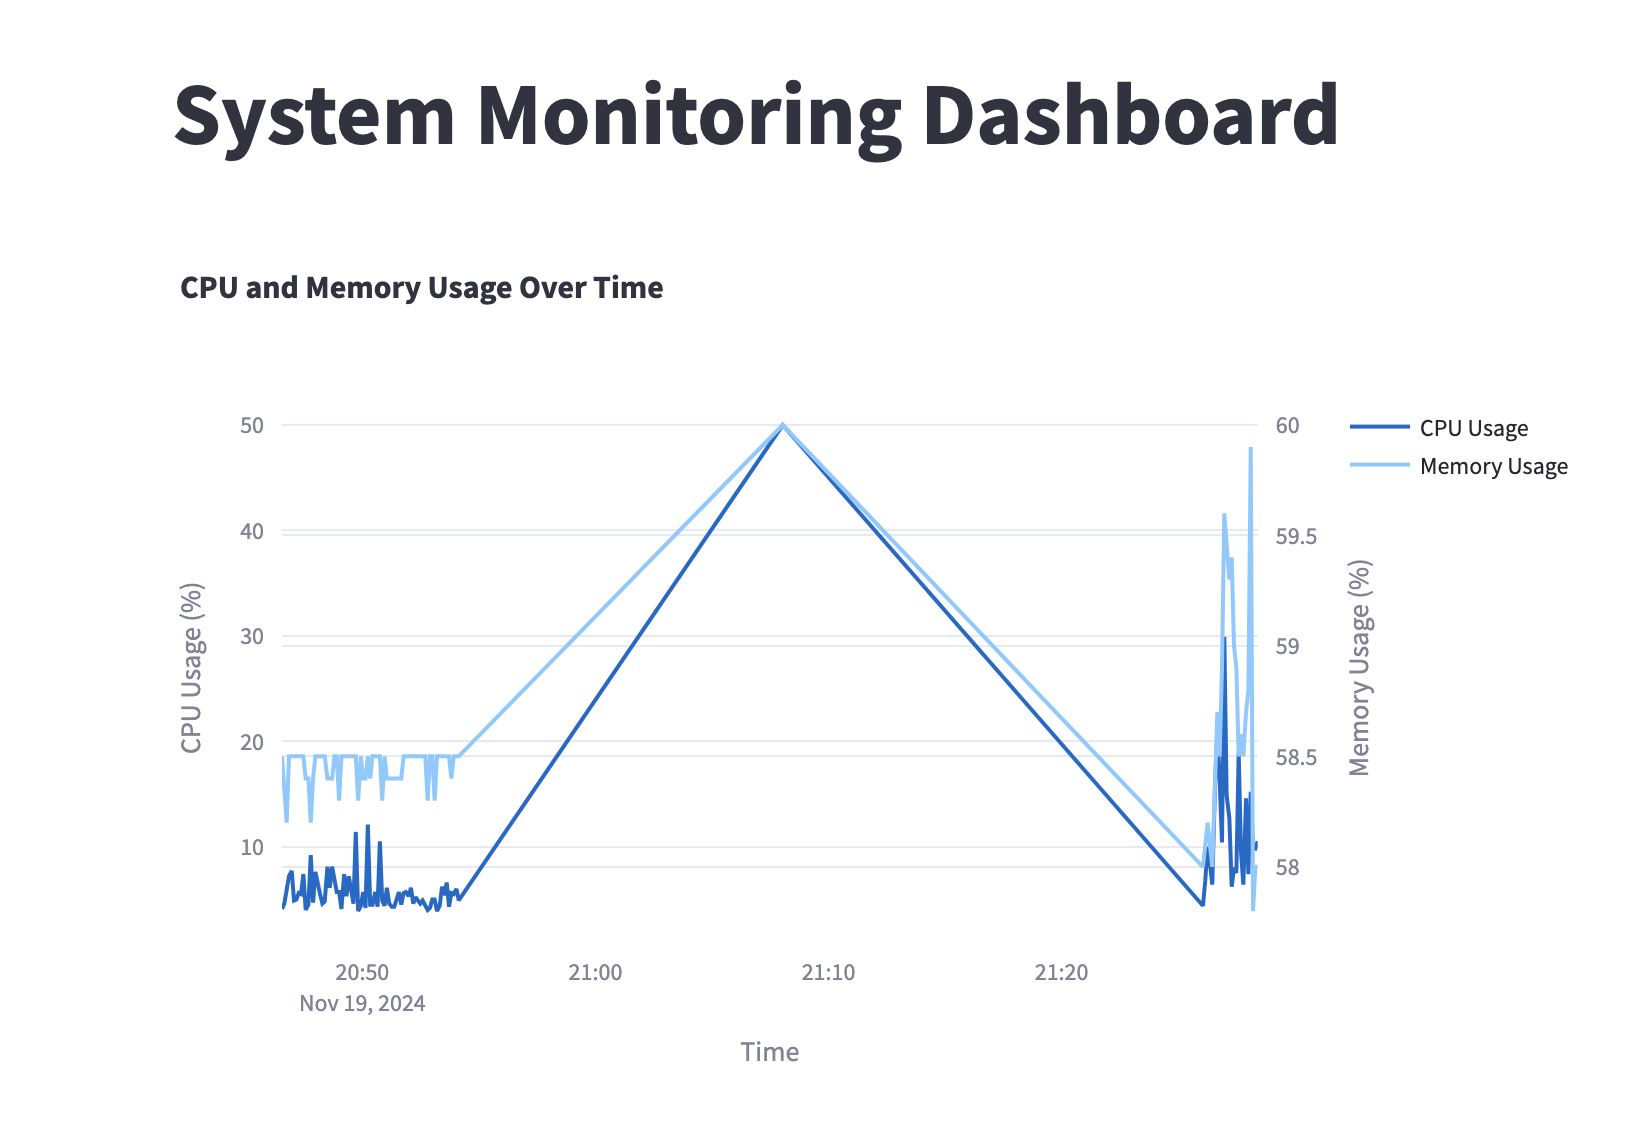
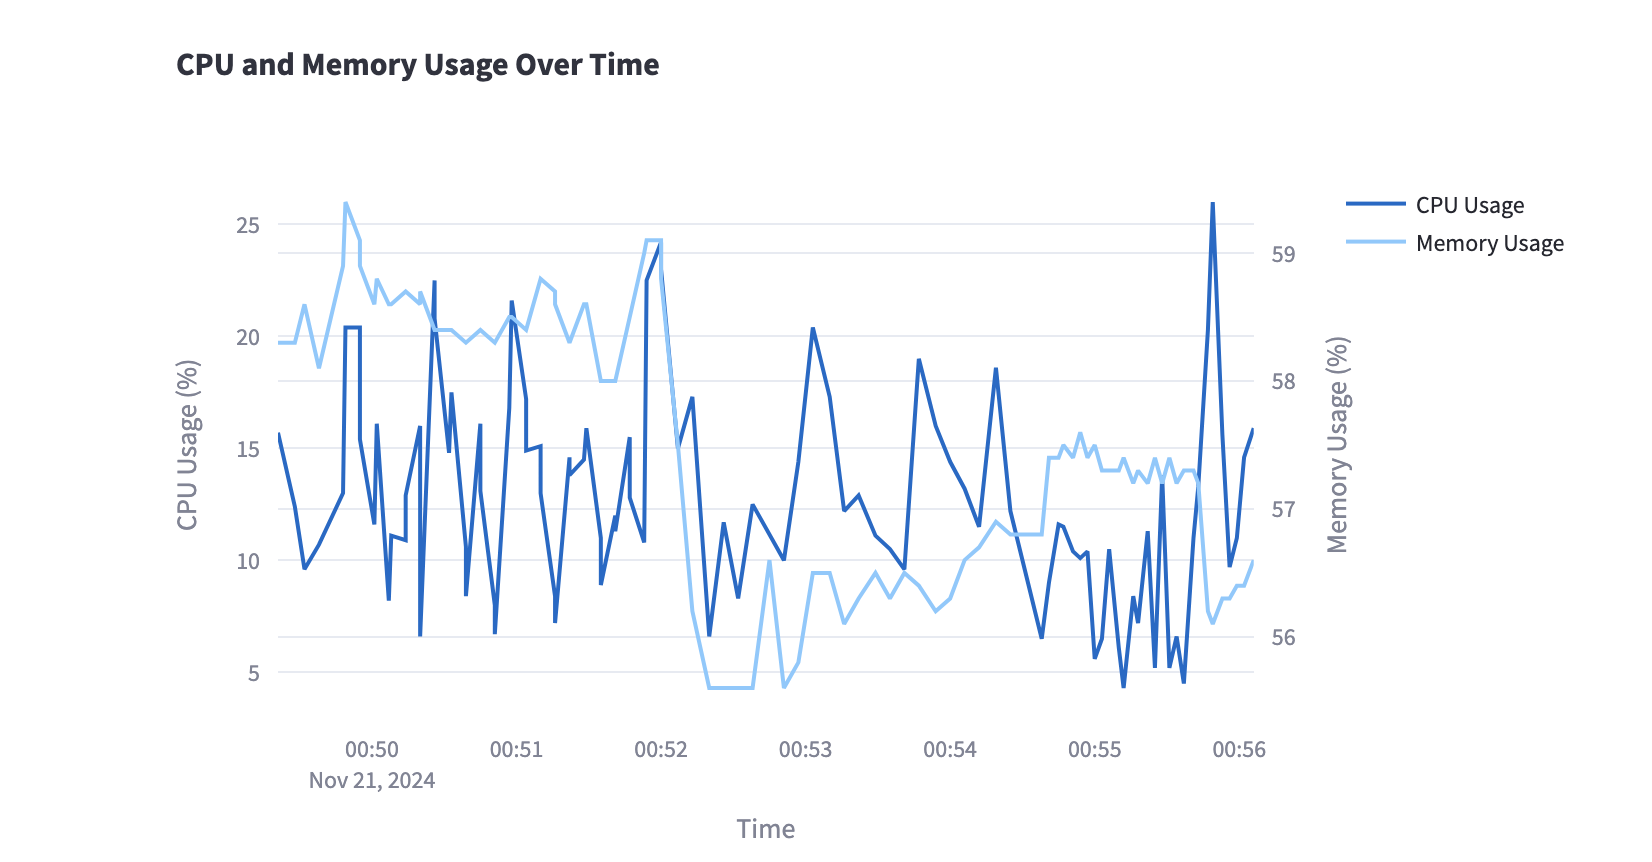
dashboard items updated

diff --git a/src/data/storage.py b/src/data/storage.py
@@ -19,6 +19,8 @@ class DataStorage:
     def __init__(self):
         self.db_path = DB_PATH
         self._create_table()
+
+        self._create_table_mem()
     
     def _create_table(self):
         query = '''
@@ -35,10 +37,32 @@ class DataStorage:
 
         with sqlite3.connect(self.db_path) as conn:
             conn.execute(query)
+            conn.commit()
+
+    def _create_table_mem(self):
+        query = '''
+            CREATE TABLE IF NOT EXISTS memory_metrics (
+            id INTEGER PRIMARY KEY AUTOINCREMENT,
+            timestamp DATETIME NOT NULL,
+            memory_total REAL NOT NULL, 
+            memory_available REAL NOT NULL,
+            memory_used REAL NOT NULL,
+            memory_cached REAL NOT NULL,
+            memory_buffers REAL NOT NULL,
+            memory_percent REAL NOT NULL,
+            swap_total REAL NOT NULL,
+            swap_used REAL NOT NULL,
+            swap_free REAL NOT NULL,
+            swap_percent REAL NOT NULL
+        )
+        '''
+
+        with sqlite3.connect(self.db_path) as conn:
+            conn.execute(query)
+            conn.commit()
     
     def save_to_db(self, data):
         if data is None: return
-        print(data)
         query = '''
         INSERT INTO system_metrics (timestamp, cpu_percent, memory_percent, disk_usage, network_bytes_sent, network_bytes_recv)
         VALUES (:timestamp, :cpu_percent, :memory_percent, :disk_usage, :network_bytes_sent, :network_bytes_recv)
@@ -46,9 +70,9 @@ class DataStorage:
         # (:timestamp, :cpu_percent, :memory_percent, :disk_usage, :network_bytes_sent, :network_bytes_recv)
         try:
 
-            logger.info(f"Attempting to save data: {data}")
-            logger.info(f"Data type: {type(data)}")
-            logger.info(f"Data keys: {list(data.keys())}")
+            logger.debug(f"Attempting to save data: {data}")
+            logger.debug(f"Data type: {type(data)}")
+            logger.debug(f"Data keys: {list(data.keys())}")
             
             params = {
                 'timestamp': data['timestamp'],
@@ -60,11 +84,79 @@ class DataStorage:
             }
             with sqlite3.connect(self.db_path) as conn:
                 conn.execute(query, params)
+                conn.commit()
             logger.info("Data saved successfully")
         
         except Exception as e:
             logger.error(f"Error saving data: {e}")
             logger.error(f'Query was: {query}')
+
+
+    def save_to_db_mem(self, data):
+        if data is None: 
+            return
+        
+        query = '''
+        INSERT INTO memory_metrics (
+            timestamp,
+            memory_total, 
+            memory_available, 
+            memory_used, 
+            memory_cached, 
+            memory_buffers, 
+            memory_percent,
+            swap_total, 
+            swap_used, 
+            swap_free, 
+            swap_percent
+        )
+        VALUES (
+            :timestamp,
+            :memory_total, 
+            :memory_available, 
+            :memory_used, 
+            :memory_cached, 
+            :memory_buffers, 
+            :memory_percent,
+            :swap_total, 
+            :swap_used, 
+            :swap_free, 
+            :swap_percent
+        )
+        '''
+        
+        try:
+            logger.debug(f"Attempting to save data: {data}")
+            logger.debug(f"Data type: {type(data)}")
+            logger.debug(f"Data keys: {list(data.keys())}")
+            
+            params = {
+                'timestamp': data['timestamp'],
+                'memory_total': data['memory_total'],
+                'memory_available': data['memory_available'],
+                'memory_used': data['memory_used'],
+                'memory_cached': data['memory_cached'],
+                'memory_buffers': data['memory_buffers'],
+                'memory_percent': data['memory_percent'],
+                'swap_total': data['swap_total'],
+                'swap_used': data['swap_used'],
+                'swap_free': data['swap_free'],
+                'swap_percent': data['swap_percent']
+            }
+            
+            with sqlite3.connect(self.db_path) as conn:
+                conn.execute(query, params)
+                conn.commit()  # Ensure changes are committed
+            
+            logger.info("Memory metrics saved successfully")
+        
+        except Exception as e:
+            logger.error(f"Error saving memory metrics: {e}")
+            logger.error(f'Query was: {query}')
+            print(data)
+            exit()
+
+    
     
     def load_data(self, limit=100):
         query = f"SELECT * FROM system_metrics ORDER BY timestamp DESC LIMIT {limit}"
@@ -73,4 +165,13 @@ class DataStorage:
                 return pd.read_sql_query(query, conn)
         except Exception as e:
             logger.error(f"Error loading data: {e}")
+            return pd.DataFrame()
+
+    def load_data_mem(self, limit=100):
+        query = f"SELECT * FROM memory_metrics ORDER BY timestamp DESC LIMIT {limit}"
+        try: 
+            with sqlite3.connect(self.db_path) as conn:
+                return pd.read_sql_query(query, conn)
+        except Exception as e:
+            logger.error(f"Error loading memory metrics: {e}")
             return pd.DataFrame()

diff --git a/src/visualization/charts.py b/src/visualization/charts.py
@@ -37,3 +37,98 @@ class ChartGenerator:
     @staticmethod
     def create_network_chart(df):
         return px.line(df, x='timestamp', y=['network_bytes_sent', 'network_bytes_recv'], title='Network Usage Over Time')
+
+
+    @staticmethod
+    def create_memory_composition_chart(df, unit='MB'):
+        # conver unit 
+        def convert_bytes(x, to_unit):
+            units = {
+                'B': 1,
+                'KB': 1024,
+                'MB': 1024**2,
+                'GB': 1024**3
+            }
+            return x / units[to_unit]
+
+        # copy dataframe and convert unit of data
+        df_converted = df.copy()
+        memory_columns = ['memory_used', 'memory_cached', 'memory_buffers', 'memory_available']
+        
+        for col in memory_columns:
+            df_converted[col] = df_converted[col].apply(lambda x: convert_bytes(x, unit))
+
+        fig = px.area(
+            df_converted, 
+            x='timestamp', 
+            y=memory_columns,
+            title=f'Memory Usage Composition Over Time ({unit})',
+            labels={
+                'value': f'Memory ({unit})', 
+                'variable': 'Type'
+            },
+            color_discrete_map={
+                'memory_used': 'red',
+                'memory_cached': 'blue',
+                'memory_buffers': 'green',
+                'memory_available': 'gray'
+            }
+        )
+        
+        return fig
+
+    @staticmethod
+    def create_memory_swap_comparison_chart(df, unit='MB'):
+        def convert_bytes(x, to_unit):
+            units = {
+                'B': 1,
+                'KB': 1024,
+                'MB': 1024**2,
+                'GB': 1024**3
+            }
+            return x / units[to_unit]
+
+        df_converted = df.copy()
+        memory_columns = ['memory_used', 'memory_total', 'swap_used', 'swap_total']
+        
+        for col in memory_columns:
+            df_converted[col] = df_converted[col].apply(lambda x: convert_bytes(x, unit))
+
+        fig = make_subplots(specs=[[{"secondary_y": True}]])
+        
+        # 메모리 사용률 계산 (퍼센트)
+
+        # df_converted['memory_usage_percent'] = (df_converted['memory_used'] / df_converted['memory_total']) * 100
+        
+        # primary y-axis: memory usage
+        fig.add_trace(
+            go.Scatter(
+                x=df_converted['timestamp'], 
+                y=df_converted['memory_used'], 
+                name=f"Memory Used ({unit})"
+            ),
+            secondary_y=False,
+        )
+        
+        # secondary y-aix: swap usage
+        fig.add_trace(
+            go.Scatter(
+                x=df_converted['timestamp'], 
+                y=df_converted['swap_used'], 
+                name=f"Swap Used ({unit})"
+            ),
+            secondary_y=True,
+        )
+        
+        fig.update_layout(
+            title=f'Memory and Swap Usage Over Time ({unit})',
+            yaxis_title=f"Memory Usage ({unit})",
+            yaxis2_title=f"Swap Usage ({unit})"
+        )
+        
+        return fig
+
+# 사용 예시:
+# 단위를 지정하여 차트 생성
+# chart1 = create_memory_composition_chart(df, unit='GB')
+# chart2 = create_memory_swap_comparison_chart(df, unit='MB')

diff --git a/src/app/main.py b/src/app/main.py
@@ -25,19 +25,22 @@ def main():
     data = collector.collect_system_data()
 
     if data:
-        storage.save_to_db(data)
+        storage.save_to_db(data)    
     
     # load stored data
     df = storage.load_data()
 
-    if not df.empty:
-        # cpu-memory chart
-        cpu_memory_chart = chart_gen.create_cpu_memory_chart(df)
-        st.plotly_chart(cpu_memory_chart)
 
-        # network chart
-        network_chart = chart_gen.create_network_chart(df)
-        st.plotly_chart(network_chart)
+
+
+    # new feature
+    data_mem = collector.collect_system_memory()
+    if data_mem:
+        storage.save_to_db_mem(data_mem)
+        
+    df_mem = storage.load_data_mem()
+
+    if not df.empty:
 
         # current system status
         col1, col2, col3 = st.columns(3)
@@ -48,6 +51,28 @@ def main():
             st.metric("Memory Usage", f"{data['memory_percent']}%")
         with col3:
             st.metric("Disk Usage", f"{data['disk_usage']}%")
+
+
+    if not df_mem.empty:
+        memory_composition_chart = chart_gen.create_memory_composition_chart(df_mem, unit = 'GB')
+        memory_swap_comparison_chart = chart_gen.create_memory_swap_comparison_chart(df_mem, unit = 'GB')
+
+        st.plotly_chart(memory_composition_chart)
+        st.plotly_chart(memory_swap_comparison_chart)
+
+
+
+        # cpu-memory chart
+        cpu_memory_chart = chart_gen.create_cpu_memory_chart(df)
+        st.plotly_chart(cpu_memory_chart)
+
+        # network chart
+        network_chart = chart_gen.create_network_chart(df)
+        st.plotly_chart(network_chart)
+
+
+
+    
 
     time.sleep(COLLECTION_INTERVAL)
     st.rerun()

diff --git a/src/data/collector.py b/src/data/collector.py
@@ -34,3 +34,37 @@ class SystemDataCollector:
         except Exception as e:
             logger.error(f'Error collecting system data: {e}')
             return None
+    
+    @staticmethod
+    def collect_system_memory():
+        try: 
+
+            mem = psutil.virtual_memory()
+            swap = psutil.swap_memory()
+            res = {
+
+                'timestamp': datetime.now().strftime('%Y-%m-%d %H:%M:%S'), 
+
+                # 상세 메모리 메트릭
+                'memory_total': mem.total,  # GB 단위
+                'memory_available': mem.available,
+                'memory_used': mem.used,
+                'memory_cached':  -1,
+                'memory_buffers': -1,
+                'memory_percent': mem.percent,
+                
+                # 스왑 메모리 메트릭
+                'swap_total': swap.total,
+                'swap_used': swap.used,
+                'swap_free': swap.free,
+                'swap_percent': swap.percent
+            }
+            if hasattr(mem, 'cached'): mem['memory_cached'] = mem.cached 
+            if hasattr(mem, 'buffers'): mem['memory_cached'] = mem.buffers  
+
+            return res
+
+        except Exception as e:
+            logger.error(f'Error collecting system memory: {e}')
+            return None
+    

diff --git a/tests/test_collector.py b/tests/test_collector.py
@@ -8,6 +8,13 @@ class TestSystemDataCollector(unittest.TestCase):
         self.assertIn('cpu_percent', data)
         self.assertIn('memory_percent', data)
         self.assertIn('disk_usage', data)
+    
+    def test_collect_system_memory(self):
+        data = SystemDataCollector.collect_system_memory()
+        self.assertIsNotNone(data)
+        self.assertIn('swap_total', data)
+        self.assertIn('swap_percent', data)
+        self.assertIn('memory_cached', data)
 
 if __name__ == '__main__':
     unittest.main()
